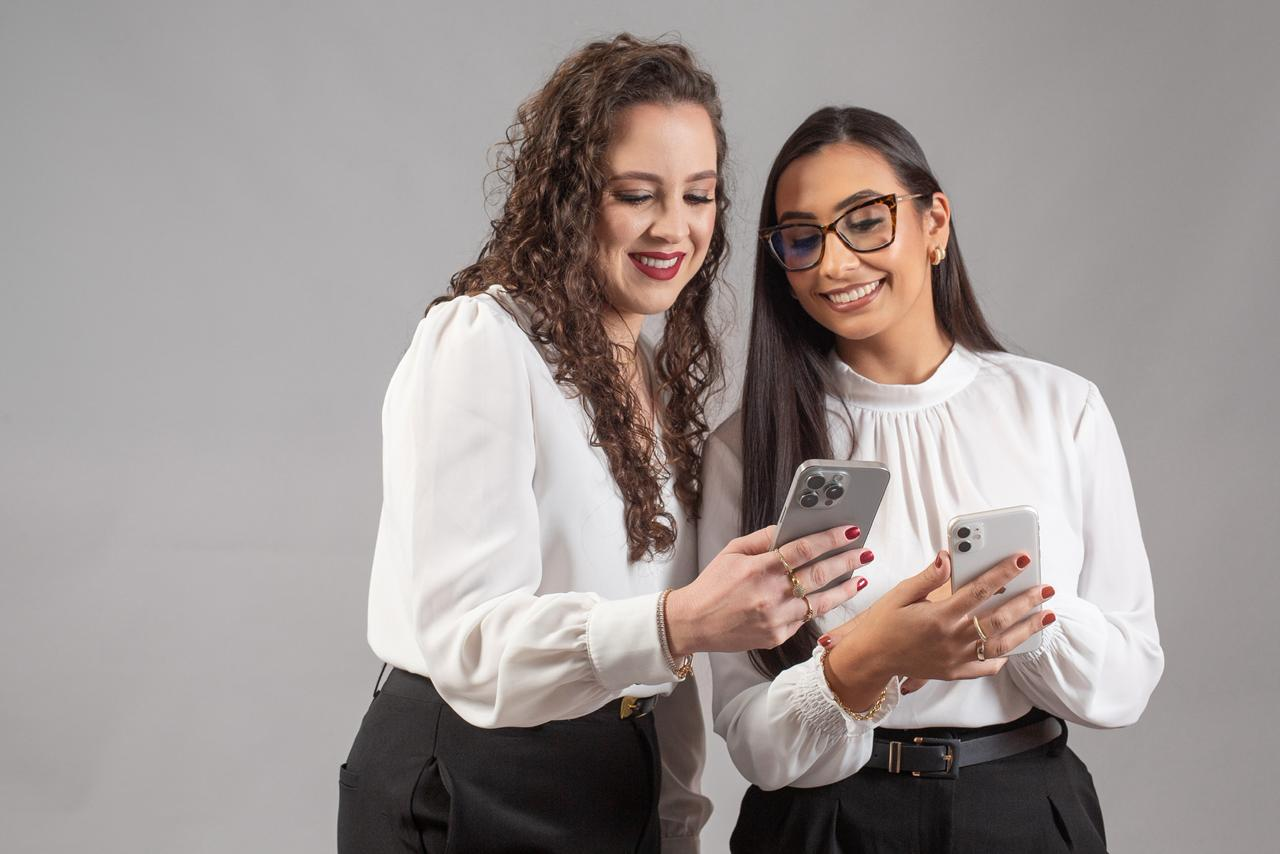
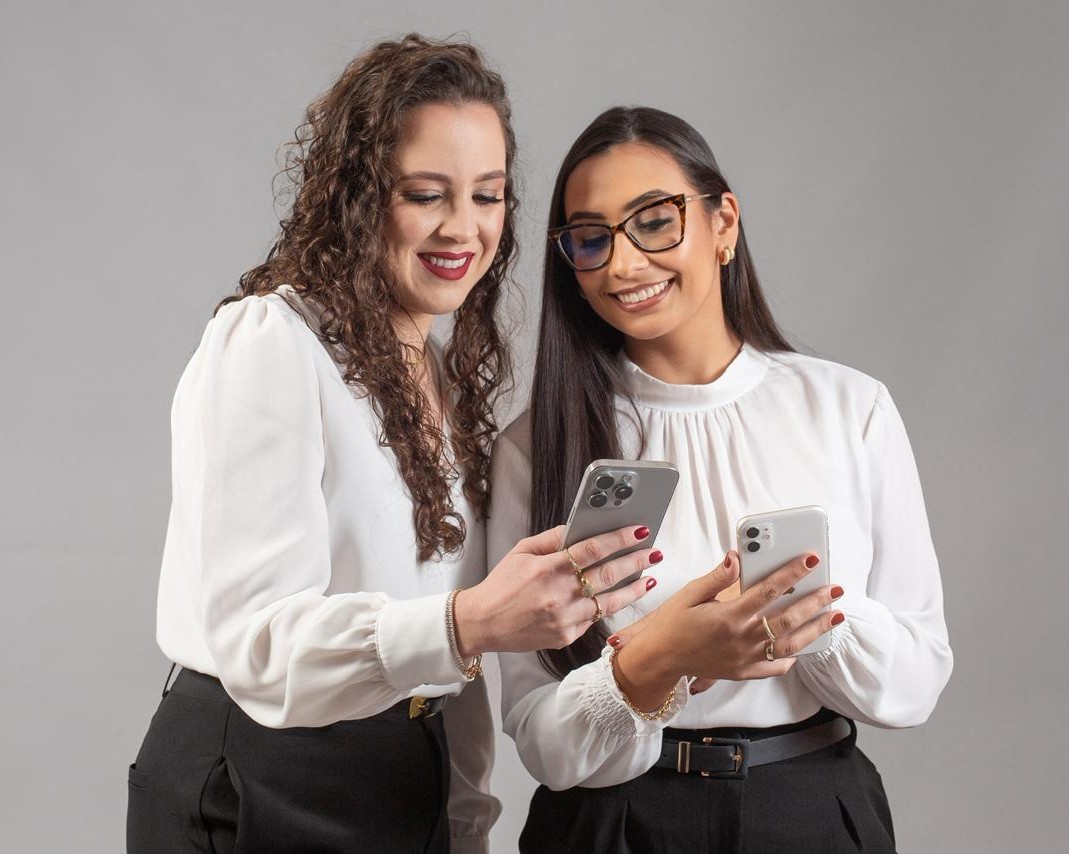
update

diff --git a/components/about.tsx b/components/about.tsx
@@ -4,15 +4,14 @@ export function About() {
   return (
     <section id="about" className="py-24 bg-background">
       <div className="max-w-7xl mx-auto px-6 lg:px-8">
-        <div className="grid lg:grid-cols-2 gap-16 items-center">
+        <div className="grid lg:grid-cols-2 gap-16 items-center lg:gap-24">
           {/* Image */}
-          <div className="relative">
+          <div className="relative flex justify-center items-center">
             <img
               src="/team/3.jpeg"
               alt="Our team of experienced attorneys"
-              className="w-full h-[500px] object-cover"
+              className="w-full h-[500px] object-cover object-center rounded-lg shadow-md"
             />
-            
           </div>
 
           {/* Content */}
@@ -52,7 +51,6 @@ export function About() {
               acadêmica e profissional, assegurando uma prestação de serviços
               jurídicos moderna, segura e alinhada às melhores práticas.{" "}
             </p>
-            
           </div>
         </div>
       </div>
